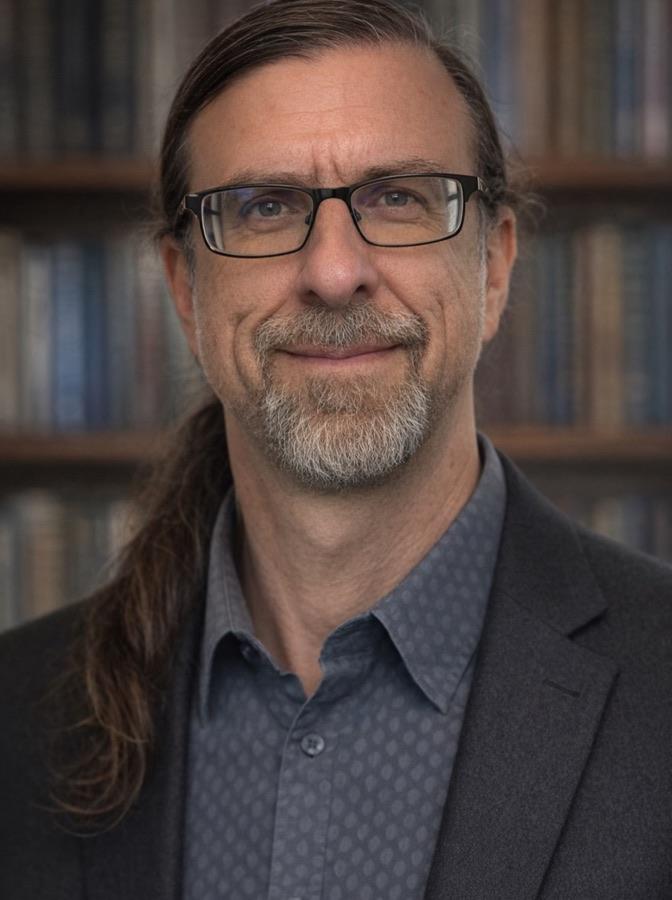
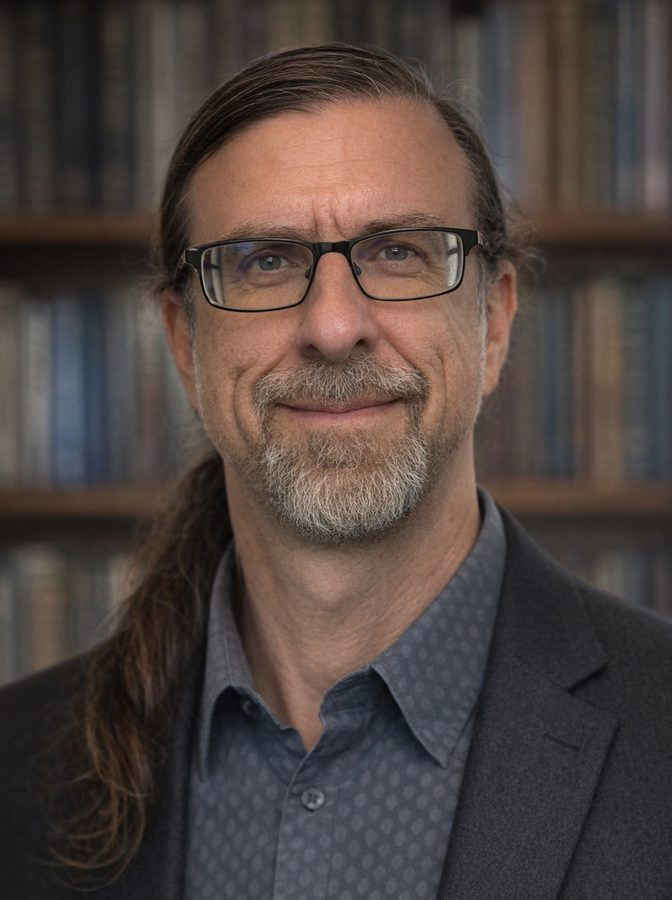
Fix headshot crop and bust cache

diff --git a/index.html b/index.html
@@ -60,7 +60,7 @@
           <div class="hero-photo-wrap">
             <div class="hero-photo-card">
               <div class="hero-photo-inner">
-                <img src="assets/headshot.jpg" alt="Portrait of David Bachman" />
+                <img src="assets/headshot.jpg?v=20260420b" alt="Portrait of David Bachman" />
               </div>
             </div>
             <div class="hero-orb hero-orb--top"></div>

diff --git a/about.html b/about.html
@@ -45,7 +45,7 @@
       <section class="section">
         <div class="container bio-grid">
           <div class="media-card">
-            <img src="assets/headshot.jpg" alt="Portrait of David Bachman" />
+            <img src="assets/headshot.jpg?v=20260420b" alt="Portrait of David Bachman" />
           </div>
 
           <div class="panel">
